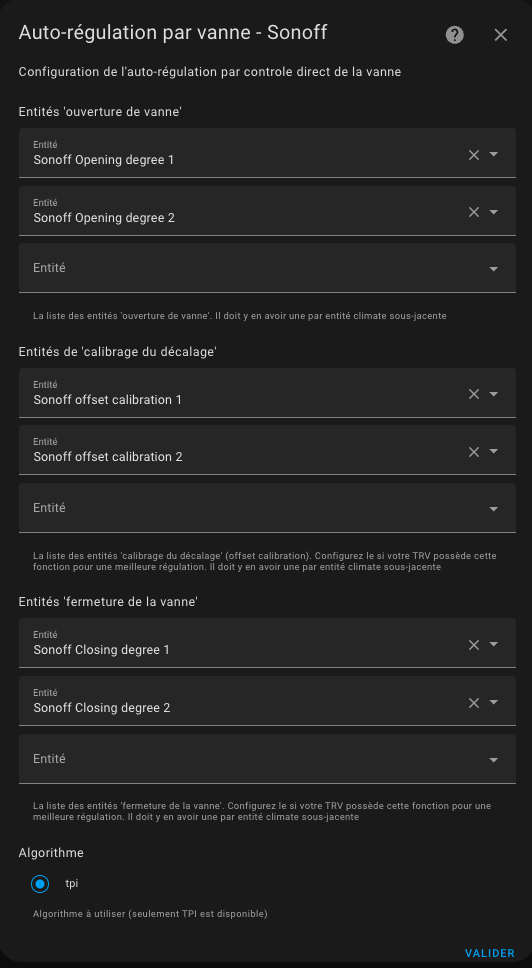
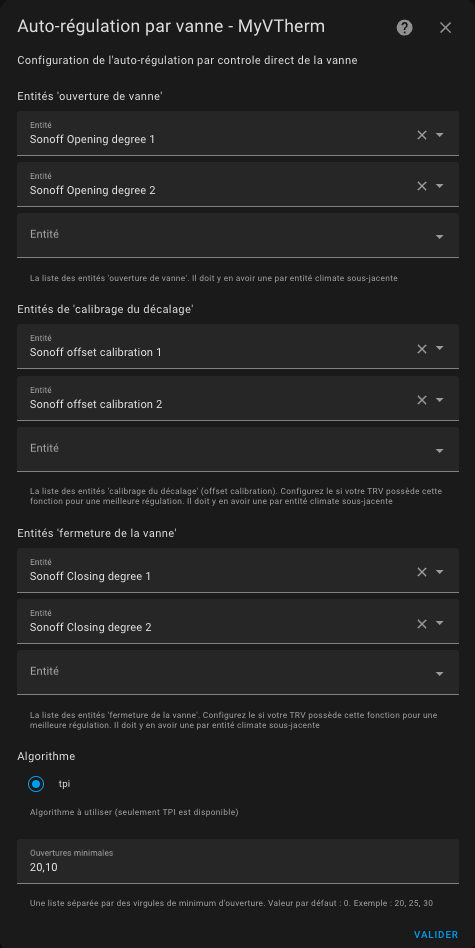
Feature #722 minimum valve opening (#731)
* ok + testu ok

* Feature #722 - Add a minimum opening degree for valve regulation

* Feature #722 - Add a minimum opening degree for valve regulation

---------

diff --git a/tests/test_overclimate_valve.py b/tests/test_overclimate_valve.py
@@ -483,3 +483,186 @@ async def test_over_climate_valve_multi_presence(
         )
 
         assert vtherm.nb_device_actives == 0
+
+
+@pytest.mark.parametrize("expected_lingering_timers", [True])
+async def test_over_climate_valve_multi_min_opening_degrees(
+    hass: HomeAssistant, skip_hass_states_get
+):
+    """Test the normal full start of a thermostat in thermostat_over_climate type
+    with valve_regulation and min_opening_degreess set"""
+
+    entry = MockConfigEntry(
+        domain=DOMAIN,
+        title="TheOverClimateMockName",
+        unique_id="uniqueId",
+        data={
+            CONF_NAME: "TheOverClimateMockName",
+            CONF_TEMP_SENSOR: "sensor.mock_temp_sensor",
+            CONF_CYCLE_MIN: 5,
+            CONF_DEVICE_POWER: 1,
+            CONF_USE_MAIN_CENTRAL_CONFIG: False,
+            CONF_USE_CENTRAL_MODE: False,
+            CONF_THERMOSTAT_TYPE: CONF_THERMOSTAT_CLIMATE,
+            CONF_EXTERNAL_TEMP_SENSOR: "sensor.mock_ext_temp_sensor",
+            CONF_TEMP_MIN: 15,
+            CONF_TEMP_MAX: 30,
+            CONF_STEP_TEMPERATURE: 0.1,
+            CONF_UNDERLYING_LIST: ["climate.mock_climate1", "climate.mock_climate2"],
+            CONF_AC_MODE: False,
+            CONF_AUTO_REGULATION_MODE: CONF_AUTO_REGULATION_VALVE,
+            CONF_AUTO_REGULATION_DTEMP: 0.01,
+            CONF_AUTO_REGULATION_PERIOD_MIN: 0,
+            CONF_AUTO_FAN_MODE: CONF_AUTO_FAN_HIGH,
+            CONF_AUTO_REGULATION_USE_DEVICE_TEMP: False,
+            CONF_PROP_FUNCTION: PROPORTIONAL_FUNCTION_TPI,
+            CONF_TPI_COEF_INT: 0.3,
+            CONF_TPI_COEF_EXT: 0.1,
+            CONF_OPENING_DEGREE_LIST: [
+                "number.mock_opening_degree1",
+                "number.mock_opening_degree2",
+            ],
+            CONF_CLOSING_DEGREE_LIST: [
+                "number.mock_closing_degree1",
+                "number.mock_closing_degree2",
+            ],
+            CONF_OFFSET_CALIBRATION_LIST: [
+                "number.mock_offset_calibration1",
+                "number.mock_offset_calibration2",
+            ],
+            CONF_USE_PRESENCE_FEATURE: False,
+            CONF_USE_WINDOW_FEATURE: False,
+            CONF_USE_MOTION_FEATURE: False,
+            CONF_USE_POWER_FEATURE: False,
+            CONF_MIN_OPENING_DEGREES: "60,70",
+        }
+        | MOCK_DEFAULT_CENTRAL_CONFIG
+        | MOCK_ADVANCED_CONFIG,
+    )
+
+    fake_underlying_climate1 = MockClimate(
+        hass, "mockUniqueId1", "MockClimateName1", {}
+    )
+    fake_underlying_climate2 = MockClimate(
+        hass, "mockUniqueId2", "MockClimateName2", {}
+    )
+
+    # mock_get_state will be called for each OPENING/CLOSING/OFFSET_CALIBRATION list
+    mock_get_state_side_effect = SideEffects(
+        {
+            # Valve 1 is open
+            "number.mock_opening_degree1": State(
+                "number.mock_opening_degree1", "10", {"min": 0, "max": 100}
+            ),
+            "number.mock_closing_degree1": State(
+                "number.mock_closing_degree1", "90", {"min": 0, "max": 100}
+            ),
+            "number.mock_offset_calibration1": State(
+                "number.mock_offset_calibration1", "0", {"min": -12, "max": 12}
+            ),
+            # Valve 2 is closed
+            "number.mock_opening_degree2": State(
+                "number.mock_opening_degree2", "0", {"min": 0, "max": 100}
+            ),
+            "number.mock_closing_degree2": State(
+                "number.mock_closing_degree2", "100", {"min": 0, "max": 100}
+            ),
+            "number.mock_offset_calibration2": State(
+                "number.mock_offset_calibration2", "10", {"min": -12, "max": 12}
+            ),
+        },
+        State("unknown.entity_id", "unknown"),
+    )
+
+    # 1. initialize the VTherm
+    tz = get_tz(hass)  # pylint: disable=invalid-name
+    now: datetime = datetime.now(tz=tz)
+
+    # fmt: off
+    with patch("custom_components.versatile_thermostat.base_thermostat.BaseThermostat.send_event") as mock_send_event, \
+        patch("custom_components.versatile_thermostat.underlyings.UnderlyingClimate.find_underlying_climate", side_effect=[fake_underlying_climate1, fake_underlying_climate2]) as mock_find_climate, \
+        patch("homeassistant.core.ServiceRegistry.async_call") as mock_service_call,\
+        patch("homeassistant.core.StateMachine.get", side_effect=mock_get_state_side_effect.get_side_effects()) as mock_get_state:
+    # fmt: on
+
+        vtherm: ThermostatOverClimateValve = await create_thermostat(hass, entry, "climate.theoverclimatemockname")
+        assert vtherm
+        assert isinstance(vtherm, ThermostatOverClimateValve)
+
+        assert vtherm.name == "TheOverClimateMockName"
+        assert vtherm.is_over_climate is True
+        assert vtherm.have_valve_regulation is True
+
+        vtherm._set_now(now)
+
+        # initialize the temps
+        await set_all_climate_preset_temp(hass, vtherm, default_temperatures, "theoverclimatemockname")
+
+        await send_temperature_change_event(vtherm, 20, now, True)
+        await send_ext_temperature_change_event(vtherm, 20, now, True)
+        await send_presence_change_event(vtherm, False, True, now)
+
+        await vtherm.async_set_preset_mode(PRESET_COMFORT)
+        await vtherm.async_set_hvac_mode(HVACMode.HEAT)
+
+        assert vtherm.target_temperature == 19
+        assert vtherm.nb_device_actives == 0
+
+    # 2: set temperature -> should activate the valve and change target
+    # fmt: off
+    with patch("custom_components.versatile_thermostat.base_thermostat.BaseThermostat.send_event") as mock_send_event, \
+        patch("homeassistant.core.ServiceRegistry.async_call") as mock_service_call,\
+        patch("homeassistant.core.StateMachine.get", side_effect=mock_get_state_side_effect.get_side_effects()) as mock_get_state:
+    # fmt: on
+        now = now + timedelta(minutes=3)
+        vtherm._set_now(now)
+
+        await send_temperature_change_event(vtherm, 18, now, True)
+        await hass.async_block_till_done()
+
+        assert vtherm.is_device_active is True
+        assert vtherm.valve_open_percent == 20
+
+        # the underlying set temperature call and the call to the valve
+        assert mock_service_call.call_count == 6
+        mock_service_call.assert_has_calls([
+            # min is 60
+            call(domain='number', service='set_value', service_data={'value': 60}, target={'entity_id': 'number.mock_opening_degree1'}),
+            call(domain='number', service='set_value', service_data={'value': 40}, target={'entity_id': 'number.mock_closing_degree1'}),
+            call(domain='number', service='set_value', service_data={'value': 3.0}, target={'entity_id': 'number.mock_offset_calibration1'}),
+            call(domain='number', service='set_value', service_data={'value': 70}, target={'entity_id': 'number.mock_opening_degree2'}),
+            call(domain='number', service='set_value', service_data={'value': 30}, target={'entity_id': 'number.mock_closing_degree2'}),
+            call(domain='number', service='set_value', service_data={'value': 12}, target={'entity_id': 'number.mock_offset_calibration2'})
+            ]
+        )
+
+        assert vtherm.nb_device_actives >= 2 # should be 2 but when run in // with the first test it give 3
+
+    # 3: set high temperature -> should deactivate the valve and change target
+    # fmt: off
+    with patch("custom_components.versatile_thermostat.base_thermostat.BaseThermostat.send_event") as mock_send_event, \
+        patch("homeassistant.core.ServiceRegistry.async_call") as mock_service_call,\
+        patch("homeassistant.core.StateMachine.get", side_effect=mock_get_state_side_effect.get_side_effects()) as mock_get_state:
+    # fmt: on
+        now = now + timedelta(minutes=3)
+        vtherm._set_now(now)
+
+        await send_temperature_change_event(vtherm, 22, now, True)
+        await hass.async_block_till_done()
+
+        assert vtherm.is_device_active is False
+        assert vtherm.valve_open_percent == 0
+
+        # the underlying set temperature call and the call to the valve
+        assert mock_service_call.call_count == 6
+        mock_service_call.assert_has_calls([
+            call(domain='number', service='set_value', service_data={'value': 0}, target={'entity_id': 'number.mock_opening_degree1'}),
+            call(domain='number', service='set_value', service_data={'value': 100}, target={'entity_id': 'number.mock_closing_degree1'}),
+            call(domain='number', service='set_value', service_data={'value': 7.0}, target={'entity_id': 'number.mock_offset_calibration1'}),
+            call(domain='number', service='set_value', service_data={'value': 0}, target={'entity_id': 'number.mock_opening_degree2'}),
+            call(domain='number', service='set_value', service_data={'value': 100}, target={'entity_id': 'number.mock_closing_degree2'}),
+            call(domain='number', service='set_value', service_data={'value': 12}, target={'entity_id': 'number.mock_offset_calibration2'})
+            ]
+        )
+
+        assert vtherm.nb_device_actives == 0

diff --git a/custom_components/versatile_thermostat/thermostat_climate_valve.py b/custom_components/versatile_thermostat/thermostat_climate_valve.py
@@ -37,6 +37,7 @@ class ThermostatOverClimateValve(ThermostatOverClimate):
                 "tpi_coef_int",
                 "tpi_coef_ext",
                 "power_percent",
+                "min_opening_degrees",
             }
         )
     )
@@ -51,6 +52,7 @@ class ThermostatOverClimateValve(ThermostatOverClimate):
         self._last_calculation_timestamp: datetime | None = None
         self._auto_regulation_dpercent: float | None = None
         self._auto_regulation_period_min: int | None = None
+        self._min_opening_degress: list[int] = []
 
         super().__init__(hass, unique_id, name, entry_infos)
 
@@ -86,6 +88,14 @@ class ThermostatOverClimateValve(ThermostatOverClimate):
         offset_list = config_entry.get(CONF_OFFSET_CALIBRATION_LIST, [])
         opening_list = config_entry.get(CONF_OPENING_DEGREE_LIST)
         closing_list = config_entry.get(CONF_CLOSING_DEGREE_LIST, [])
+
+        self._min_opening_degrees = config_entry.get(CONF_MIN_OPENING_DEGREES, None)
+        min_opening_degrees_list = []
+        if self._min_opening_degrees:
+            min_opening_degrees_list = [
+                int(x.strip()) for x in self._min_opening_degrees.split(",")
+            ]
+
         for idx, _ in enumerate(config_entry.get(CONF_UNDERLYING_LIST)):
             offset = offset_list[idx] if idx < len(offset_list) else None
             # number of opening should equal number of underlying
@@ -98,6 +108,11 @@ class ThermostatOverClimateValve(ThermostatOverClimate):
                 opening_degree_entity_id=opening,
                 closing_degree_entity_id=closing,
                 climate_underlying=self._underlyings[idx],
+                min_opening_degree=(
+                    min_opening_degrees_list[idx]
+                    if idx < len(min_opening_degrees_list)
+                    else 0
+                ),
             )
             self._underlyings_valve_regulation.append(under)
 
@@ -129,6 +144,10 @@ class ThermostatOverClimateValve(ThermostatOverClimate):
         self._attr_extra_state_attributes["function"] = self._proportional_function
         self._attr_extra_state_attributes["tpi_coef_int"] = self._tpi_coef_int
         self._attr_extra_state_attributes["tpi_coef_ext"] = self._tpi_coef_ext
+
+        self._attr_extra_state_attributes["min_opening_degrees"] = (
+            self._min_opening_degrees
+        )
 
         self._attr_extra_state_attributes["valve_open_percent"] = (
             self.valve_open_percent

diff --git a/custom_components/versatile_thermostat/config_flow.py b/custom_components/versatile_thermostat/config_flow.py
@@ -259,6 +259,21 @@ class VersatileThermostatBaseConfigFlow(FlowHandler):
         if not self.check_valve_regulation_nb_entities(data, step_id):
             raise ValveRegulationNbEntitiesIncorrect()
 
+        # Check that the min_opening_degrees is correctly set
+        raw_list = data.get(CONF_MIN_OPENING_DEGREES, None)
+        if raw_list:
+            try:
+                # Validation : Convertir la liste saisie
+                int_list = [int(x.strip()) for x in raw_list.split(",")]
+
+                # Optionnel : Vérifiez des conditions supplémentaires sur la liste
+                if any(x < 0 for x in int_list):
+                    raise ValueError
+            except ValueError as exc:
+                raise ValveRegulationMinOpeningDegreesIncorrect(
+                    CONF_MIN_OPENING_DEGREES
+                ) from exc
+
     def check_config_complete(self, infos) -> bool:
         """True if the config is now complete (ie all mandatory attributes are set)"""
         is_central_config = (
@@ -399,6 +414,8 @@ class VersatileThermostatBaseConfigFlow(FlowHandler):
                 errors["base"] = "configuration_not_complete"
             except ValveRegulationNbEntitiesIncorrect as err:
                 errors["base"] = "valve_regulation_nb_entities_incorrect"
+            except ValveRegulationMinOpeningDegreesIncorrect as err:
+                errors[str(err)] = "min_opening_degrees_format"
             except Exception:  # pylint: disable=broad-except
                 _LOGGER.exception("Unexpected exception")
                 errors["base"] = "unknown"

diff --git a/custom_components/versatile_thermostat/underlyings.py b/custom_components/versatile_thermostat/underlyings.py
@@ -1029,6 +1029,7 @@ class UnderlyingValveRegulation(UnderlyingValve):
         opening_degree_entity_id: str,
         closing_degree_entity_id: str,
         climate_underlying: UnderlyingClimate,
+        min_opening_degree: int = 0,
     ) -> None:
         """Initialize the underlying TRV with valve regulation"""
         super().__init__(
@@ -1045,6 +1046,7 @@ class UnderlyingValveRegulation(UnderlyingValve):
         self._max_opening_degree: float = None
         self._min_offset_calibration: float = None
         self._max_offset_calibration: float = None
+        self._min_opening_degree: int = min_opening_degree
 
     async def send_percent_open(self):
         """Send the percent open to the underlying valve"""
@@ -1079,6 +1081,9 @@ class UnderlyingValveRegulation(UnderlyingValve):
             return
 
         # Send opening_degree
+        if 0 < self._percent_open < self._min_opening_degree:
+            self._percent_open = self._min_opening_degree
+
         await super().send_percent_open()
 
         # Send closing_degree if set
@@ -1137,6 +1142,11 @@ class UnderlyingValveRegulation(UnderlyingValve):
     def closing_degree_entity_id(self) -> str:
         """The offset_calibration_entity_id"""
         return self._closing_degree_entity_id
+
+    @property
+    def min_opening_degree(self) -> int:
+        """The minimum opening degree"""
+        return self._min_opening_degree
 
     @property
     def have_closing_degree_entity(self) -> bool:

diff --git a/tests/test_config_flow.py b/tests/test_config_flow.py
@@ -1581,6 +1581,7 @@ async def test_user_config_flow_over_climate_valve(
             CONF_OFFSET_CALIBRATION_LIST: ["number.offset_calibration1"],
             CONF_OPENING_DEGREE_LIST: ["number.opening_degree1"],
             CONF_CLOSING_DEGREE_LIST: ["number.closing_degree1"],
+            CONF_MIN_OPENING_DEGREES: "10, 20,0",
         },
     )
     assert result["type"] == FlowResultType.FORM
@@ -1619,6 +1620,7 @@ async def test_user_config_flow_over_climate_valve(
                 "number.opening_degree2",
             ],
             CONF_CLOSING_DEGREE_LIST: [],
+            CONF_MIN_OPENING_DEGREES: "10, 20,0",
         },
     )
     assert result["type"] == FlowResultType.MENU
@@ -1715,6 +1717,7 @@ async def test_user_config_flow_over_climate_valve(
         CONF_PROP_FUNCTION: PROPORTIONAL_FUNCTION_TPI,
         CONF_TPI_COEF_INT: 0.3,
         CONF_TPI_COEF_EXT: 0.1,
+        CONF_MIN_OPENING_DEGREES: "10, 20,0",
     }
     assert result["result"]
     assert result["result"].domain == DOMAIN

diff --git a/custom_components/versatile_thermostat/const.py b/custom_components/versatile_thermostat/const.py
@@ -123,6 +123,7 @@ CONF_STEP_TEMPERATURE = "step_temperature"
 CONF_OFFSET_CALIBRATION_LIST = "offset_calibration_entity_ids"
 CONF_OPENING_DEGREE_LIST = "opening_degree_entity_ids"
 CONF_CLOSING_DEGREE_LIST = "closing_degree_entity_ids"
+CONF_MIN_OPENING_DEGREES = "min_opening_degrees"
 
 # Deprecated
 CONF_HEATER = "heater_entity_id"
@@ -550,6 +551,10 @@ class ConfigurationNotCompleteError(HomeAssistantError):
 class ValveRegulationNbEntitiesIncorrect(HomeAssistantError):
     """Error to indicate there is an error in the configuration of the TRV with valve regulation.
     The number of specific entities is incorrect."""
+
+
+class ValveRegulationMinOpeningDegreesIncorrect(HomeAssistantError):
+    """Error to indicate that the minimal opening degrees is not a list of int separated by coma"""
 
 
 class overrides:  # pylint: disable=invalid-name

diff --git a/custom_components/versatile_thermostat/config_schema.py b/custom_components/versatile_thermostat/config_schema.py
@@ -219,6 +219,7 @@ STEP_VALVE_REGULATION = vol.Schema(  # pylint: disable=invalid-name
                 PROPORTIONAL_FUNCTION_TPI,
             ]
         ),
+        vol.Optional(CONF_MIN_OPENING_DEGREES, default=""): str,
     }
 )
 

diff --git a/documentation/fr/self-regulation.md b/documentation/fr/self-regulation.md
@@ -32,7 +32,8 @@ Elle permet de configurer les entités de contrôle de la vanne :
 Vous devez donner :
 1. autant d'entités de contrôle d'ouverture de la vanne qu'il y a de sous-jacents et dans le même odre. Ces paramètres sont obligatoires,
 2. autant d'entités de calibrage du décalage de température qu'il y a de sous-jacents et dans le même ordre. Ces paramètres sont facultatifs ; ils doivent être tous founis ou aucun,
-3. autant d'entités de de contrôile du taux de fermture qu'il y a de sous-jacents et dans le même ordre. Ces paramètres sont facultatifs ; ils doivent être tous founis ou aucun
+3. autant d'entités de de contrôile du taux de fermture qu'il y a de sous-jacents et dans le même ordre. Ces paramètres sont facultatifs ; ils doivent être tous founis ou aucun,
+4. une liste de valeurs minimales d'ouverture de la vanne lorsqu'elle doit être ouverte. Ce champ est une liste d'entier. Si la vanne doit être ouverte, elle le sera au minimum avec cette valeur d'ouverture. Cela permet de laisser passer suffisamment d'eau lorsqu'elle doit être ouverte.
 
 L'algorithme de calcul du taux d'ouverture est basé sur le _TPI_ qui est décrit [ici](algorithms.md). C'est le même algorithme qui est utilisé pour les _VTherm_ `over_switch` et `over_valve`.
 

diff --git a/documentation/en/self-regulation.md b/documentation/en/self-regulation.md
@@ -32,6 +32,7 @@ You need to provide:
 1. As many valve opening control entities as there are underlying devices, and in the same order. These parameters are mandatory.
 2. As many temperature calibration entities as there are underlying devices, and in the same order. These parameters are optional; they must either all be provided or none.
 3. As many valve closure control entities as there are underlying devices, and in the same order. These parameters are optional; they must either all be provided or none.
+4. A list of minimum opening values for the valve when it needs to be opened. This field is a list of integers. If the valve needs to be opened, it will be opened at a minimum of this opening value. This allows enough water to pass through when it needs to be opened.
 
 The opening rate calculation algorithm is based on the _TPI_ algorithm described [here](algorithms.md). This is the same algorithm used for _VTherms_ `over_switch` and `over_valve`.
 
